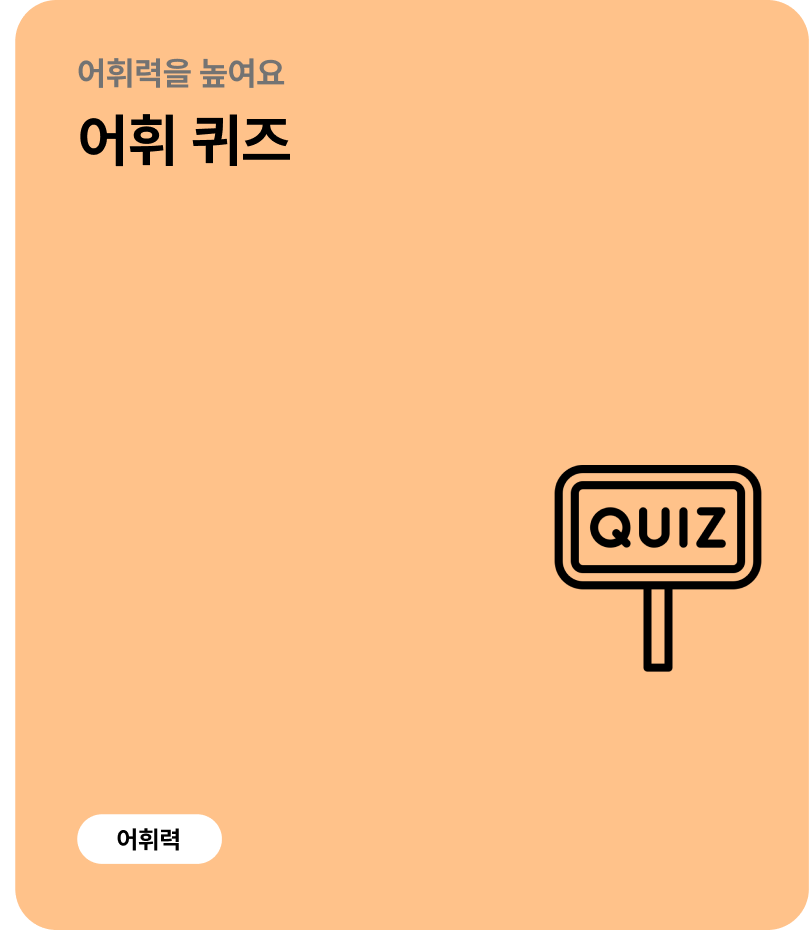
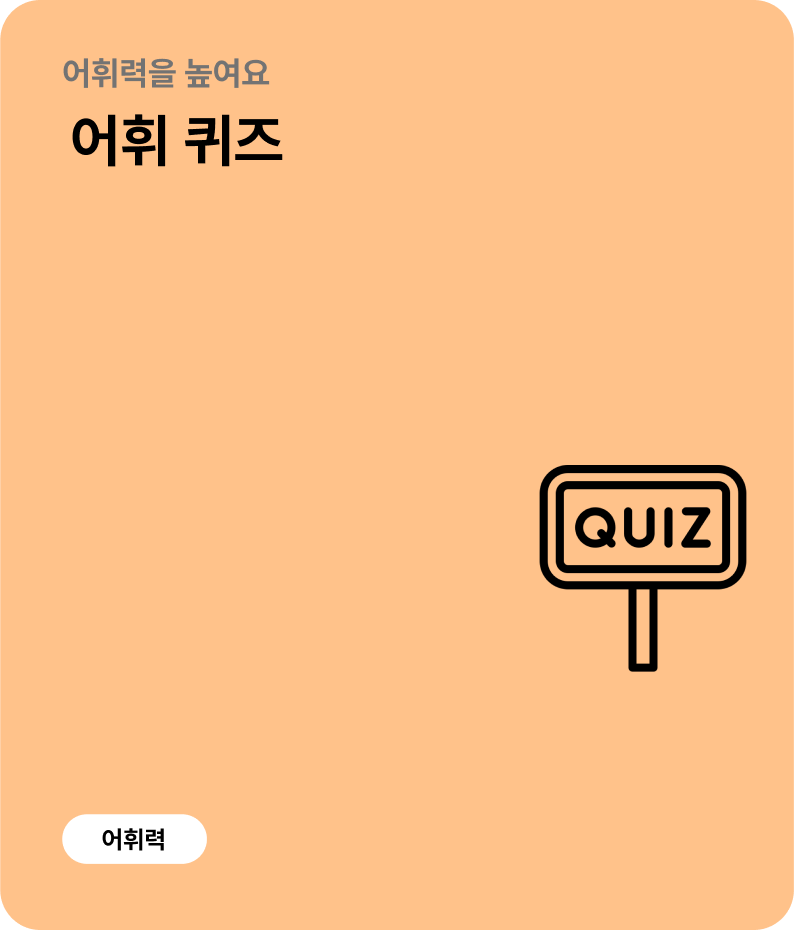
design(fe): /about 페이지 - card 이동

diff --git a/client/src/app/(intro)/about/page.tsx b/client/src/app/(intro)/about/page.tsx
@@ -1,5 +1,6 @@
 import Header from '@/app/_common/Header';
 import Card from './_component/Card';
+import CardContainer from './_component/CardContainer';
 
 export default function Page() {
   return (
@@ -12,7 +13,7 @@ export default function Page() {
             <div className='text-white font-Ansungtangmyun text-7xl'>심심한 사과</div>
           </div>
           <div
-            className=' w-[215px] h-[60px] cursor-pointer my- bg-ourBlack flex justify-between items-center rounded-full text-white px-7 duration-[0.2s]
+            className=' w-[215px] h-[60px] cursor-pointer  bg-ourBlack flex justify-between items-center rounded-full text-white px-7 duration-[0.2s]
           hover:bg-ourBlue'
           >
             <div>시작하기</div>
@@ -20,7 +21,7 @@ export default function Page() {
           </div>
         </div>
         {/* 움직일 div */}
-        <div className='w-full block mt-[104px] mb-[60px]'>
+        <CardContainer>
           {/* 카드를 감싼 div */}
           <div className='flex flex-row gap-[15px] justify-start items-stretch ml-[15px]'>
             <Card num={1} />
@@ -28,8 +29,13 @@ export default function Page() {
             <Card num={3} />
             <Card num={4} />
             <Card num={5} />
+            <Card num={1} />
+            <Card num={2} />
+            <Card num={3} />
+            <Card num={4} />
+            <Card num={5} />
           </div>
-        </div>
+        </CardContainer>
       </div>
       <div className='bg-ourBlue h-[400px]'>b</div>
       <div className='bg-green-200'>c</div>

diff --git a/client/src/app/(intro)/about/_component/CardContainer.tsx b/client/src/app/(intro)/about/_component/CardContainer.tsx
@@ -1,0 +1,25 @@
+'use client';
+import { ReactNode, useEffect, useState } from 'react';
+
+export default function CardContainer({ children }: { children: ReactNode }) {
+  const [slideIndex, setSlideIdex] = useState(0);
+
+  useEffect(() => {
+    if (slideIndex === 20) setSlideIdex(0);
+    setTimeout(() => {
+      setSlideIdex(slideIndex + 1);
+    }, 1000);
+  }, [slideIndex]);
+
+  return (
+    <div
+      className='w-full block mt-[140px] mb-[60px]'
+      style={{
+        transition: 'all 1000ms linear',
+        transform: `translateX(${-1 * (5 * slideIndex)}%)`,
+      }}
+    >
+      {children}
+    </div>
+  );
+}

diff --git a/client/src/app/(intro)/about/_component/Card.tsx b/client/src/app/(intro)/about/_component/Card.tsx
@@ -9,7 +9,7 @@ export default function Card({ num }: { num: number }) {
       height={500}
       data-w-id='82fb0c48-ee0d-a227-b693-79ad41998fe6'
       alt=''
-      className='w-1/4'
+      className='w-1/5 drop-shadow-[2px_2px_2px_rgba(0,0,0,0.2)]'
     />
     // <div className='w-1/3 bg-black'>
     //   <div className='bg-green-500/50 w-[200px] h-[200px]'></div>
